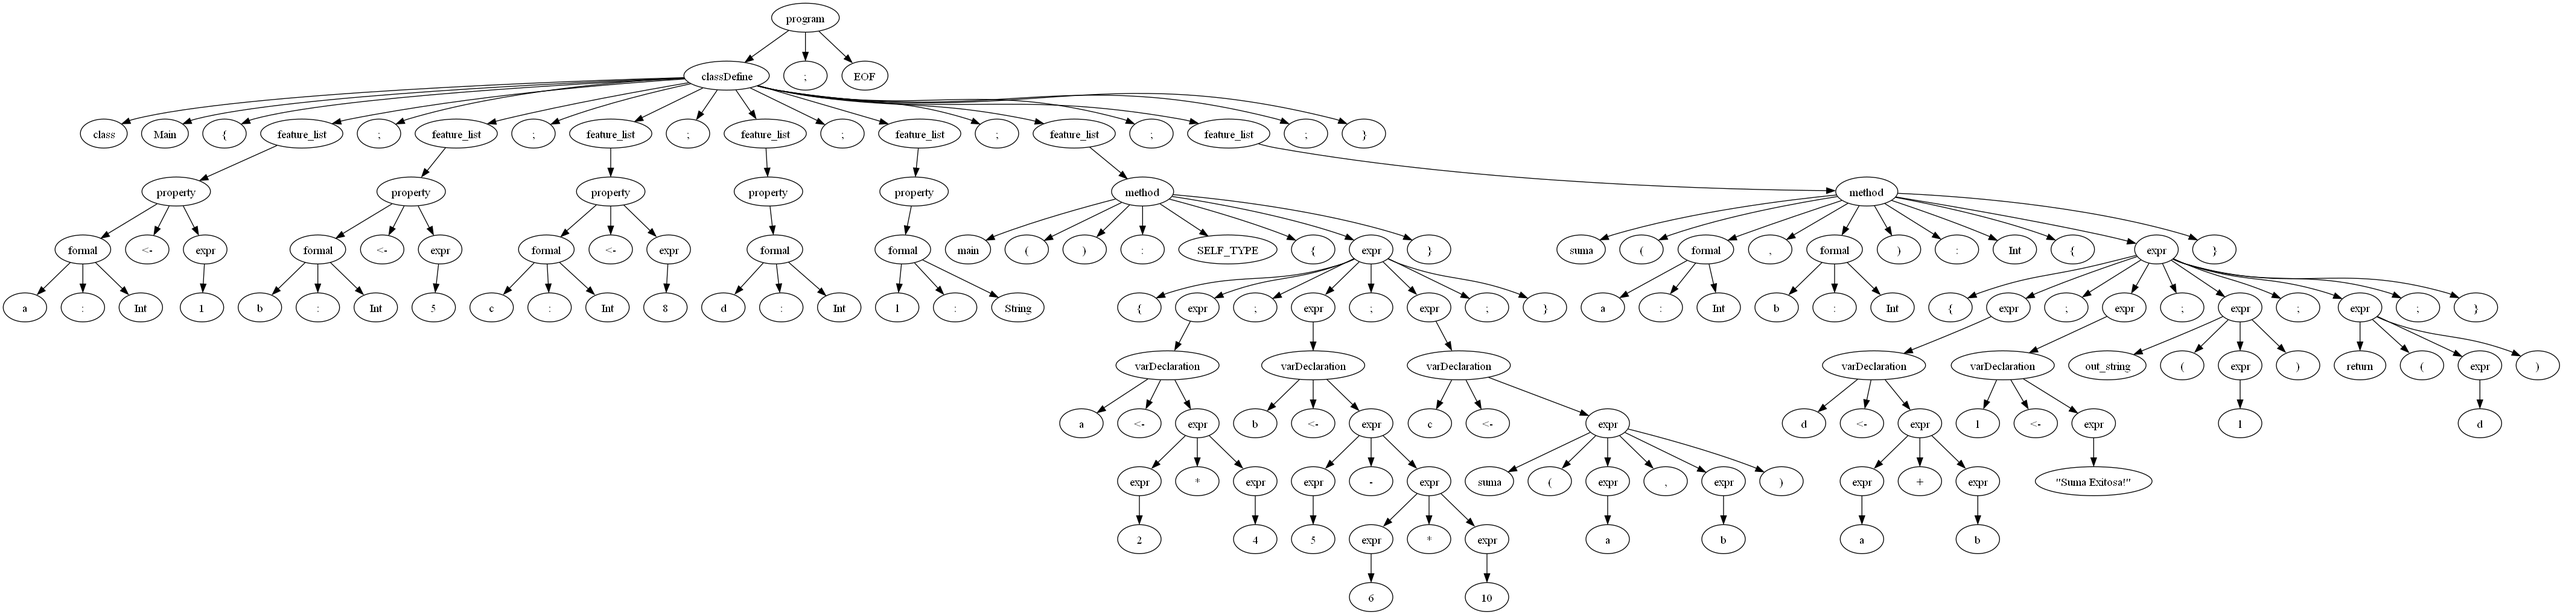
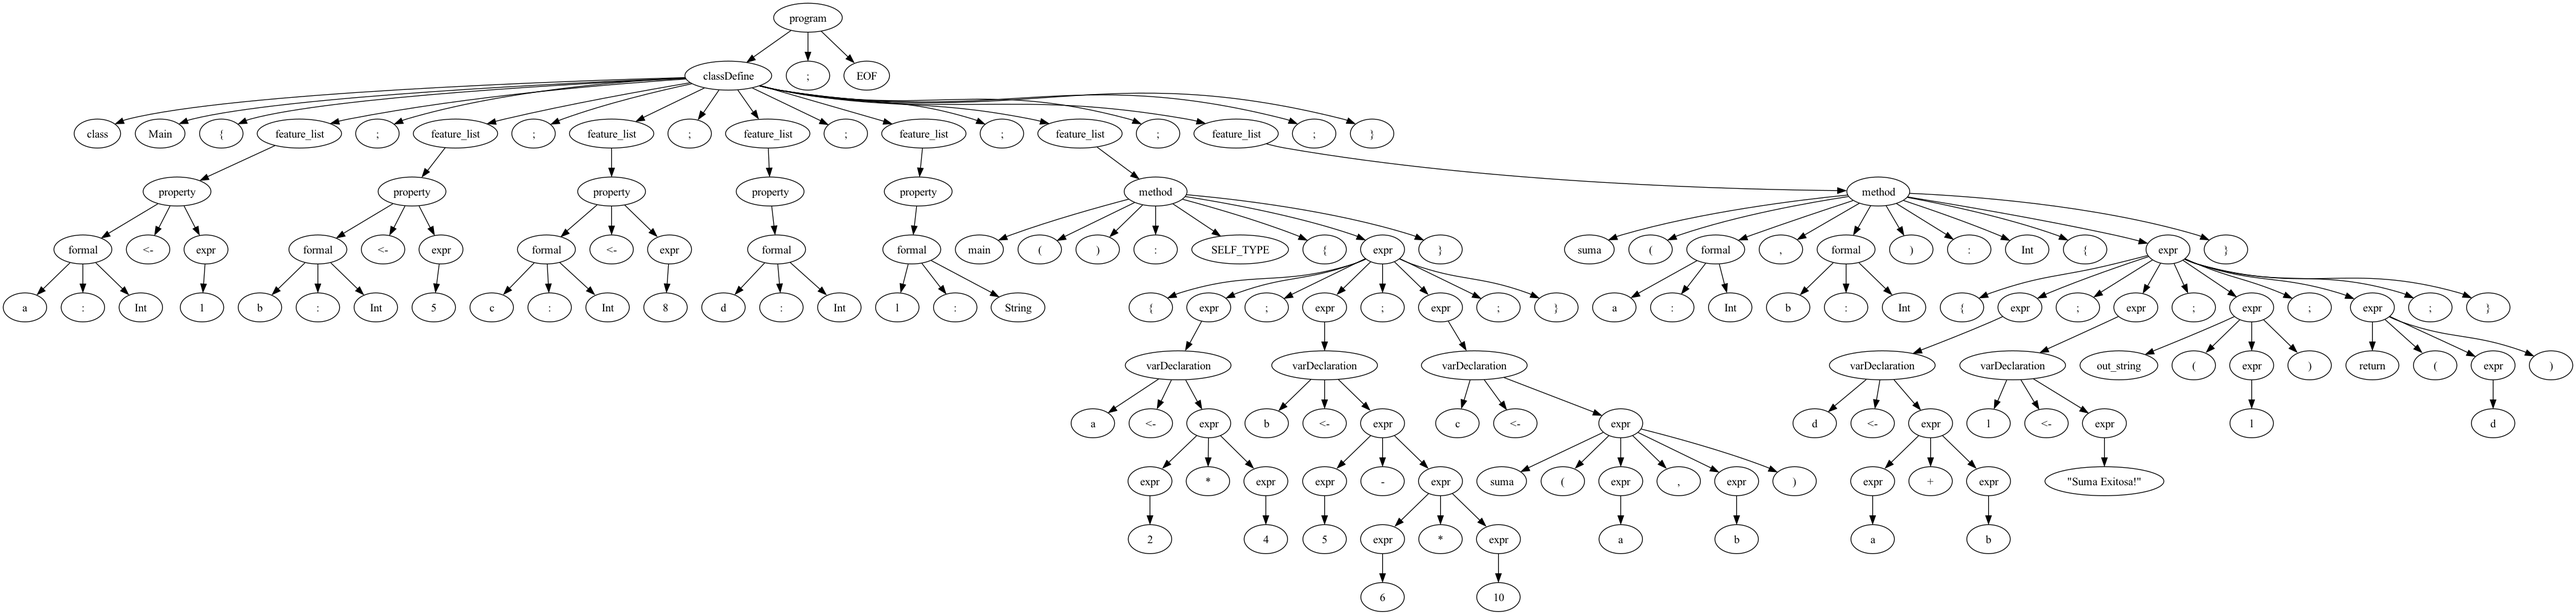
arreglando

diff --git a/Proyecto2/Cuadrupla.py b/Proyecto2/Cuadrupla.py
@@ -131,14 +131,18 @@ class Intermediate():
             # Comprueba si es un método sin parámetros
             
             if children_len == 3 and node.children[1].val == "(" and node.children[2].val == ")":
-                
+
                 self.methodCallQuad(node)
-                
+
             # Comprueba si es un método con parámetros
             
             elif children_len > 3 and node.children[1].val == "(" and node.children[-1].val == ")":
+
+                # self.lista_cuadruplas.append(Cuadrupla("STACK_INIT","---","---","---"))
                 
                 self.methodCallParamsQuad(node)
+
+                # self.lista_cuadruplas.append(Cuadrupla("---","---","---","EMPTY_STACK"))
                 
             # Comprueba si es operación aritmética
             
@@ -239,10 +243,13 @@ class Intermediate():
         else:
             self.processed_nodes.add(node)
 
+        
+
         #saltarnos si es un return
         if node.children[0].val == "return":
             return
 
+        self.lista_cuadruplas.append(Cuadrupla("STACK_INIT","---","---","---"))
         children = node.children
         # ver los formals
         contador = 0
@@ -256,6 +263,7 @@ class Intermediate():
         # creamos la cuadrupla
         cuadrupla = Cuadrupla("METHOD_CALL", node.children[0].val, contador, temp)
         self.lista_cuadruplas.append(cuadrupla)
+        self.lista_cuadruplas.append(Cuadrupla("---","---","---","EMPTY_STACK"))
 
         return temp
 

diff --git a/Proyecto2/Compiler.py b/Proyecto2/Compiler.py
@@ -267,6 +267,21 @@ class Compiler():
         self.semanticAnalyzer = SemanticAnalyzer(self.treeStruct, self.symbolTable, self.tokens)
         self.semanticAnalyzer.analyze()
     
+    def buildAST(self):
+        print("\n------Building AST------")
+        tree = self.getTreeString()
+        root = self.build_tree(self.tree)
+        self.treeStruct = ParseTree()
+        self.traverse_tree(root, self.treeStruct)
+        # for node in self.treeStruct.nodes:
+        #     print(node)
+        self.treeStruct.root = self.treeStruct.nodes[0]
+        # print(self.treeStruct)
+
+        drawTree = Drawer(self.treeStruct)
+        drawTree.draw(self.treeStruct.root)
+        drawTree.save("ast_image")
+    
     def getExprChildren(self, node, child_values=None):
         if child_values is None:
             child_values = []  # Initialize the list only in the initial call

diff --git a/Proyecto2/Runnable.py b/Proyecto2/Runnable.py
@@ -20,7 +20,9 @@ keywords = {
     "JUMP_IF_FALSE": ("salmon", None),
     "JUMP": ("seagreen", None),
     "PARAM": ("skyblue", None),
-    "WHL": ("gold", None), # Cambiamos "goldenrodyellow" a "gold"
+    "WHL": ("gold", None), 
+    "STACK_INIT": ("red", None),
+    "EMPTY_STACK": ("red", None),
 
     # Operadores aritméticos
     "*": ("gray", None),

diff --git a/Proyecto2/main.py b/Proyecto2/main.py
@@ -11,7 +11,7 @@ from Cuadrupla import *
 
 def main():
     
-    compilador = Compiler('Proyecto2/Ejemplos/ejemplo1.yapl')
+    compilador = Compiler('Proyecto2/Ejemplos/ejemplo2.yapl')
 
     compilador.lexicalAnalysis()
     #compilador.syntacticAnalysis2()
